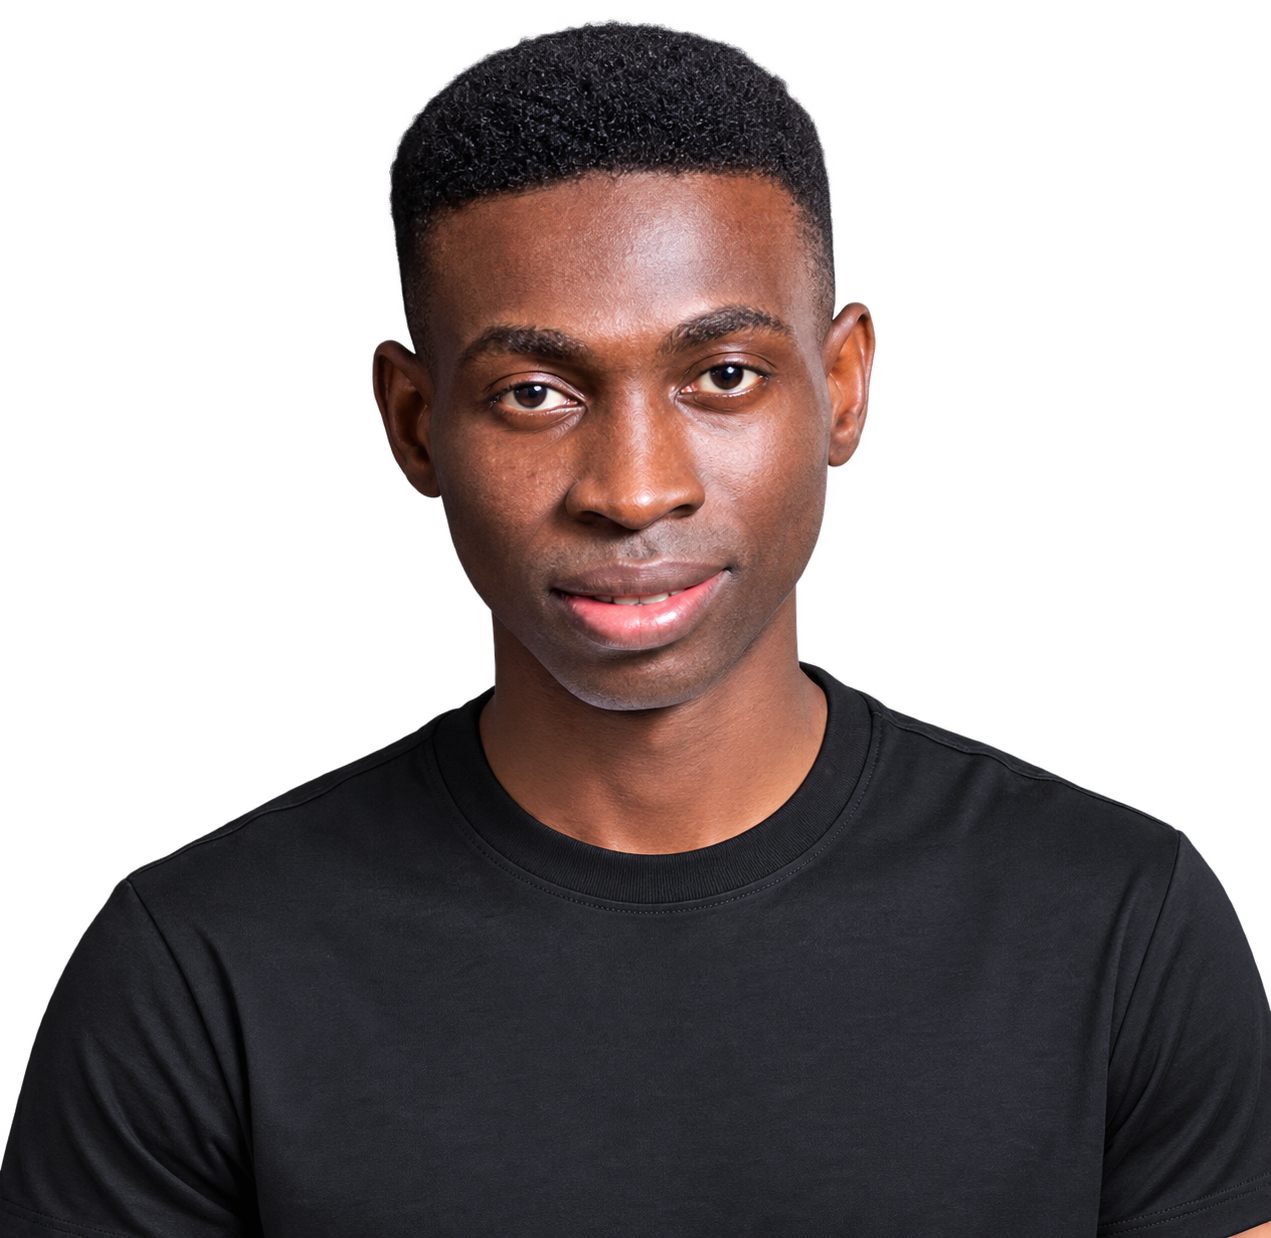
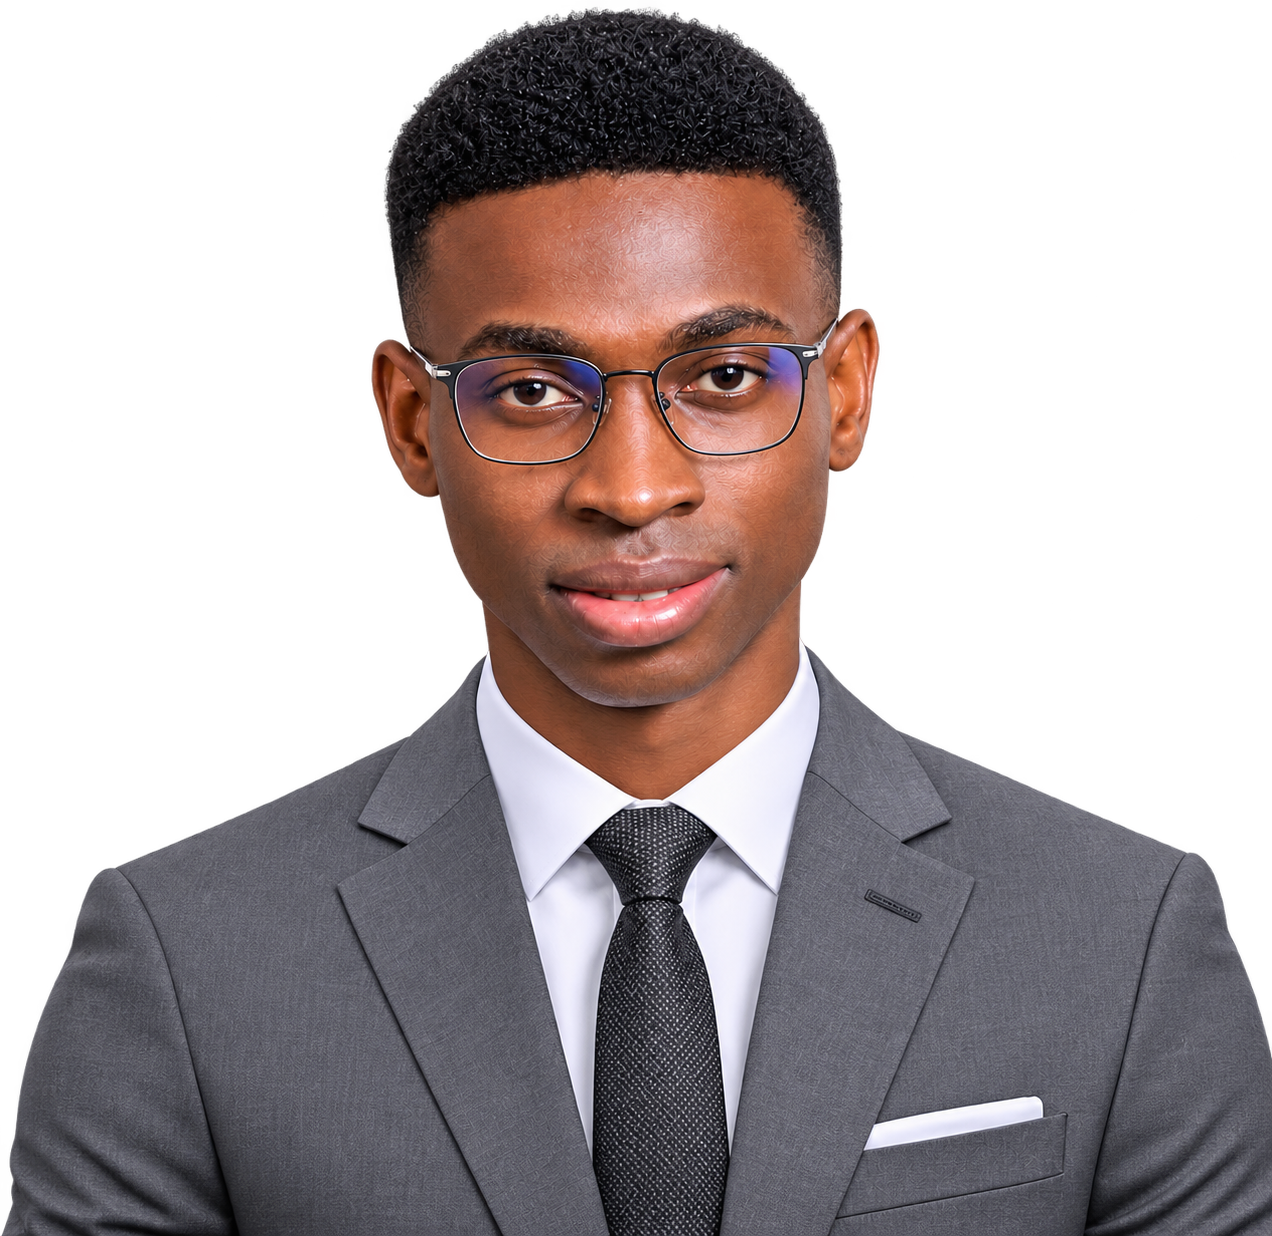
Update Meppeplin website

diff --git a/src/components/home/ServicesExplorer.tsx b/src/components/home/ServicesExplorer.tsx
@@ -12,8 +12,8 @@ const imagery: Record<string, string> = {
   "property-transactions": "/images/expertise/property-real-estate.jpg",
   "procurement-installation": "/images/expertise/procurement-installation.png",
   "interior-decor": "/images/expertise/interior-decor.jpg",
-  "construction-finishes": "/images/expertise/construction-finishes.jpg",
-  "outdoor-landscaping": "/images/expertise/outdoor-landscaping.jpg",
+  "construction-finishes": "/images/expertise/construction-finishes.png",
+  "outdoor-landscaping": "/images/expertise/outdoor-landscaping.png",
   "pools-water-features": "/images/expertise/pools-water-features.jpg",
 };
 

diff --git a/src/components/home/OurTeam.tsx b/src/components/home/OurTeam.tsx
@@ -54,7 +54,7 @@ const members: TeamMember[] = [
   },
   {
     name: "Clinton",
-    role: "Plumber",
+    role: "Chief Lead Plumber",
     image: "/images/team/team-01.png",
     number: "06",
   },
